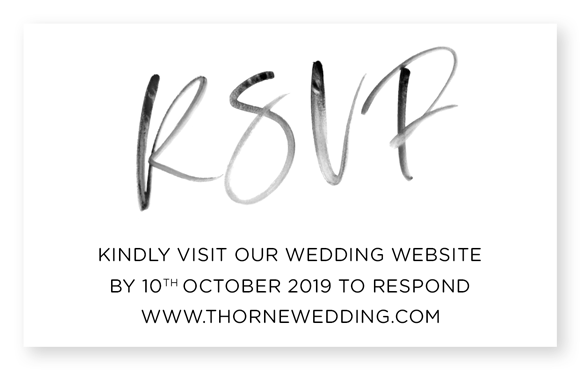
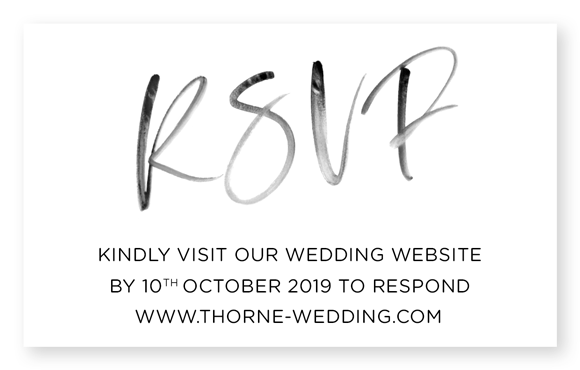
Updated URL

Changed region(s): [[0.2172, 0.8324, 0.7759, 0.8919]]

diff --git a/wedding/index.html b/wedding/index.html
@@ -13,9 +13,6 @@
             * { font-family: sans-serif !important; }
         </style>
     <![endif]-->
-    <!--[if !mso]><!-->
-        <!-- Insert font reference, e.g. <link href="https://fonts.googleapis.com/css?family=Source+Sans+Pro:400,700" rel="stylesheet"> -->
-    <!--<![endif]-->
     <style>
         *,
         *:after,
@@ -29,8 +26,7 @@
             -webkit-text-size-adjust: 100%;
         }
         html,
-        body,
-        .document {
+        body {
             width: 100% !important;
             height: 100% !important;
             margin: 0;
@@ -100,7 +96,7 @@
                             <table role="presentation" aria-hidden="true" cellspacing="0" cellpadding="0" border="0" align="center" width="100%">
                                 <tr>
                                     <td width="580">
-                                        <a href="https://www.userx.co.za" style="text-decoration: none" target="_blank">
+                                        <a href="http://www.thorne-wedding.com" style="text-decoration: none" target="_blank">
                                             <img src="https://www.userx.co.za/wedding/invitation.png" border="0" width="580" alt="" style="border: 0; display: block" />
                                         </a>
                                     </td>
@@ -113,7 +109,7 @@
                             <table role="presentation" aria-hidden="true" cellspacing="0" cellpadding="0" border="0" align="center" width="100%">
                                 <tr>
                                     <td width="290">
-                                        <a href="https://www.userx.co.za" style="text-decoration: none" target="_blank">
+                                        <a href="http://www.thorne-wedding.com" style="text-decoration: none" target="_blank">
                                             <img src="https://www.userx.co.za/wedding/rsvp.png" border="0" width="290" alt="" style="border: 0; display: block;" />
                                         </a>
                                     </td>
